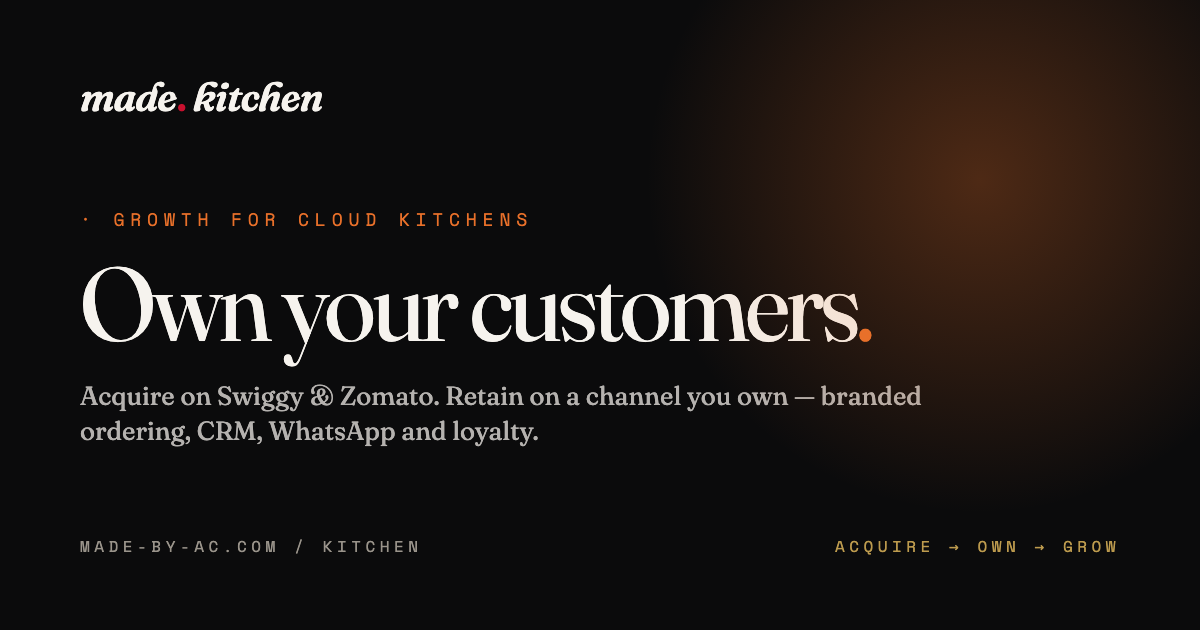
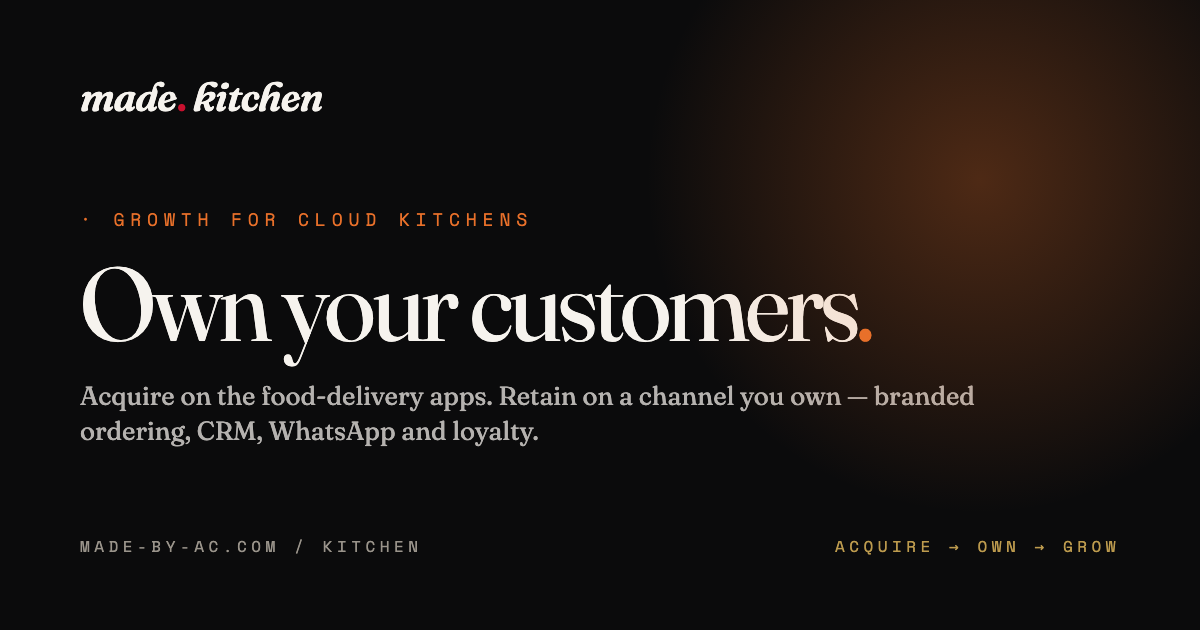
made. kitchen: use generic 'food-delivery apps', drop real brand names

Changed region(s): [[0.185, 0.6032, 0.8325, 0.6635]]

diff --git a/src/site/KitchenPage.tsx b/src/site/KitchenPage.tsx
@@ -15,7 +15,7 @@ import {
 } from "lucide-react";
 
 // made. kitchen — a growth + customer-ownership platform for cloud kitchens.
-// The delivery-side sibling to made. table: acquire on Swiggy/Zomato, RETAIN on a
+// The delivery-side sibling to made. table: acquire on the food-delivery apps, RETAIN on a
 // direct channel you own. Studio brand (ink/paper/red/gold) with warm saffron +
 // coral accents. Service-led — we run it for you first, then automate.
 const SAFFRON = "#e8702a";
@@ -25,7 +25,7 @@ const PROBLEMS = [
   {
     n: "01",
     t: "You don't own your customers",
-    d: "An order comes through Swiggy or Zomato — and the platform keeps the customer data, the history, the notifications, the discovery. You just get the order.",
+    d: "An order comes through a food-delivery app — and the platform keeps the customer data, the history, the notifications, the discovery. You just get the order.",
   },
   {
     n: "02",
@@ -78,7 +78,7 @@ export function KitchenPage() {
           Own your<br />customers<span style={{ color: SAFFRON }}>.</span>
         </h1>
         <p className="rise mt-9 font-display text-xl md:text-2xl leading-snug max-w-2xl text-paper/80" style={{ animationDelay: "0.28s" }}>
-          A growth and retention platform built only for cloud kitchens — acquire on Swiggy and Zomato,
+          A growth and retention platform built only for cloud kitchens — acquire on the food-delivery apps,
           then keep those customers on a channel you actually own. We run it as a service first, then automate.
         </p>
       </section>
@@ -109,7 +109,7 @@ export function KitchenPage() {
         <div className="reveal-up max-w-4xl">
           <span className="label" style={{ color: SAFFRON }}>· the insight</span>
           <h2 className="mt-6 font-display text-3xl md:text-[3.4rem] leading-[1.06]">
-            Swiggy and Zomato aren't the enemy. They're your{" "}
+            The food-delivery apps aren't the enemy. They're your{" "}
             <span className="italic font-normal" style={{ color: SAFFRON }}>customer-acquisition channel.</span>
           </h2>
           <p className="mt-8 font-display text-xl md:text-2xl leading-snug max-w-3xl text-paper/80">
@@ -135,7 +135,7 @@ export function KitchenPage() {
             <div className="rounded-2xl border border-ink-line bg-ink p-8">
               <span className="label text-grey-dim">What we're not</span>
               <ul className="mt-5 flex flex-col gap-3">
-                {["Another Swiggy or Zomato", "A delivery company", "A logistics company", "A race we can't win against giants"].map((x) => (
+                {["Another food-delivery app", "A delivery company", "A logistics company", "A race we can't win against giants"].map((x) => (
                   <li key={x} className="flex items-start gap-3 text-grey-dim text-[15px]">
                     <Ban className="w-4 h-4 mt-1 shrink-0 text-grey" /> {x}
                   </li>

diff --git a/kitchen.html b/kitchen.html
@@ -7,7 +7,7 @@
 
     <!-- Primary SEO Meta Tags -->
     <meta name="title" content="made. kitchen · growth & retention for cloud kitchens" />
-    <meta name="description" content="A growth and customer-ownership platform built only for cloud kitchens — branded ordering pages, QR customer capture, CRM, WhatsApp marketing and loyalty. Acquire on Swiggy/Zomato, retain on a channel you own. We run it as a service first, then automate." />
+    <meta name="description" content="A growth and customer-ownership platform built only for cloud kitchens — branded ordering pages, QR customer capture, CRM, WhatsApp marketing and loyalty. Acquire on the food-delivery apps, retain on a channel you own. We run it as a service first, then automate." />
     <meta name="keywords" content="made by ac, made kitchen, cloud kitchen growth, cloud kitchen CRM, restaurant retention, WhatsApp marketing restaurants, loyalty program cloud kitchen, branded ordering page, direct ordering, customer ownership, vizag" />
     <meta name="author" content="made. by ac" />
     <meta name="robots" content="index, follow" />
@@ -17,7 +17,7 @@
     <meta property="og:type" content="website" />
     <meta property="og:url" content="https://made-by-ac.com/kitchen" />
     <meta property="og:title" content="made. kitchen · own your customers" />
-    <meta property="og:description" content="Growth + retention for cloud kitchens: acquire on Swiggy/Zomato, then keep those customers on a channel you own. Run as a service first, then automated." />
+    <meta property="og:description" content="Growth + retention for cloud kitchens: acquire on the food-delivery apps, then keep those customers on a channel you own. Run as a service first, then automated." />
     <meta property="og:image" content="https://made-by-ac.com/og-kitchen.png" />
     <meta property="og:image:width" content="1200" />
     <meta property="og:image:height" content="630" />
@@ -28,7 +28,7 @@
     <meta property="twitter:card" content="summary_large_image" />
     <meta property="twitter:url" content="https://made-by-ac.com/kitchen" />
     <meta property="twitter:title" content="made. kitchen · own your customers" />
-    <meta property="twitter:description" content="Growth + retention for cloud kitchens: acquire on Swiggy/Zomato, then keep those customers on a channel you own." />
+    <meta property="twitter:description" content="Growth + retention for cloud kitchens: acquire on the food-delivery apps, then keep those customers on a channel you own." />
     <meta property="twitter:image" content="https://made-by-ac.com/og-kitchen.png" />
 
     <link rel="canonical" href="https://made-by-ac.com/kitchen" />
@@ -45,7 +45,7 @@
       "name": "made. kitchen",
       "serviceType": "Growth, retention & customer-ownership platform for cloud kitchens",
       "url": "https://made-by-ac.com/kitchen",
-      "description": "A growth and customer-ownership platform built only for cloud kitchens — branded ordering pages, QR customer capture, CRM, WhatsApp marketing and loyalty. Acquire on Swiggy/Zomato, retain on a direct channel you own. Run as a done-for-you service first, then automated.",
+      "description": "A growth and customer-ownership platform built only for cloud kitchens — branded ordering pages, QR customer capture, CRM, WhatsApp marketing and loyalty. Acquire on the food-delivery apps, retain on a direct channel you own. Run as a done-for-you service first, then automated.",
       "provider": {
         "@type": "Organization",
         "name": "made. by ac",

diff --git a/src/site/KitchenTease.tsx b/src/site/KitchenTease.tsx
@@ -7,7 +7,7 @@ const SAFFRON = "#e8702a";
 // (served on the portfolio and at kitchen.made-by-ac.com from the same codebase).
 export function KitchenTease() {
   const steps = [
-    { icon: Megaphone, k: "Acquire", v: "Swiggy & Zomato bring the first order — they're the channel, not the enemy." },
+    { icon: Megaphone, k: "Acquire", v: "The food-delivery apps bring the first order — they're the channel, not the enemy." },
     { icon: UserCheck, k: "Own", v: "A QR in every package turns that order into a customer you actually keep." },
     { icon: TrendingUp, k: "Grow", v: "CRM, WhatsApp and loyalty turn one delivery into a regular." },
   ];